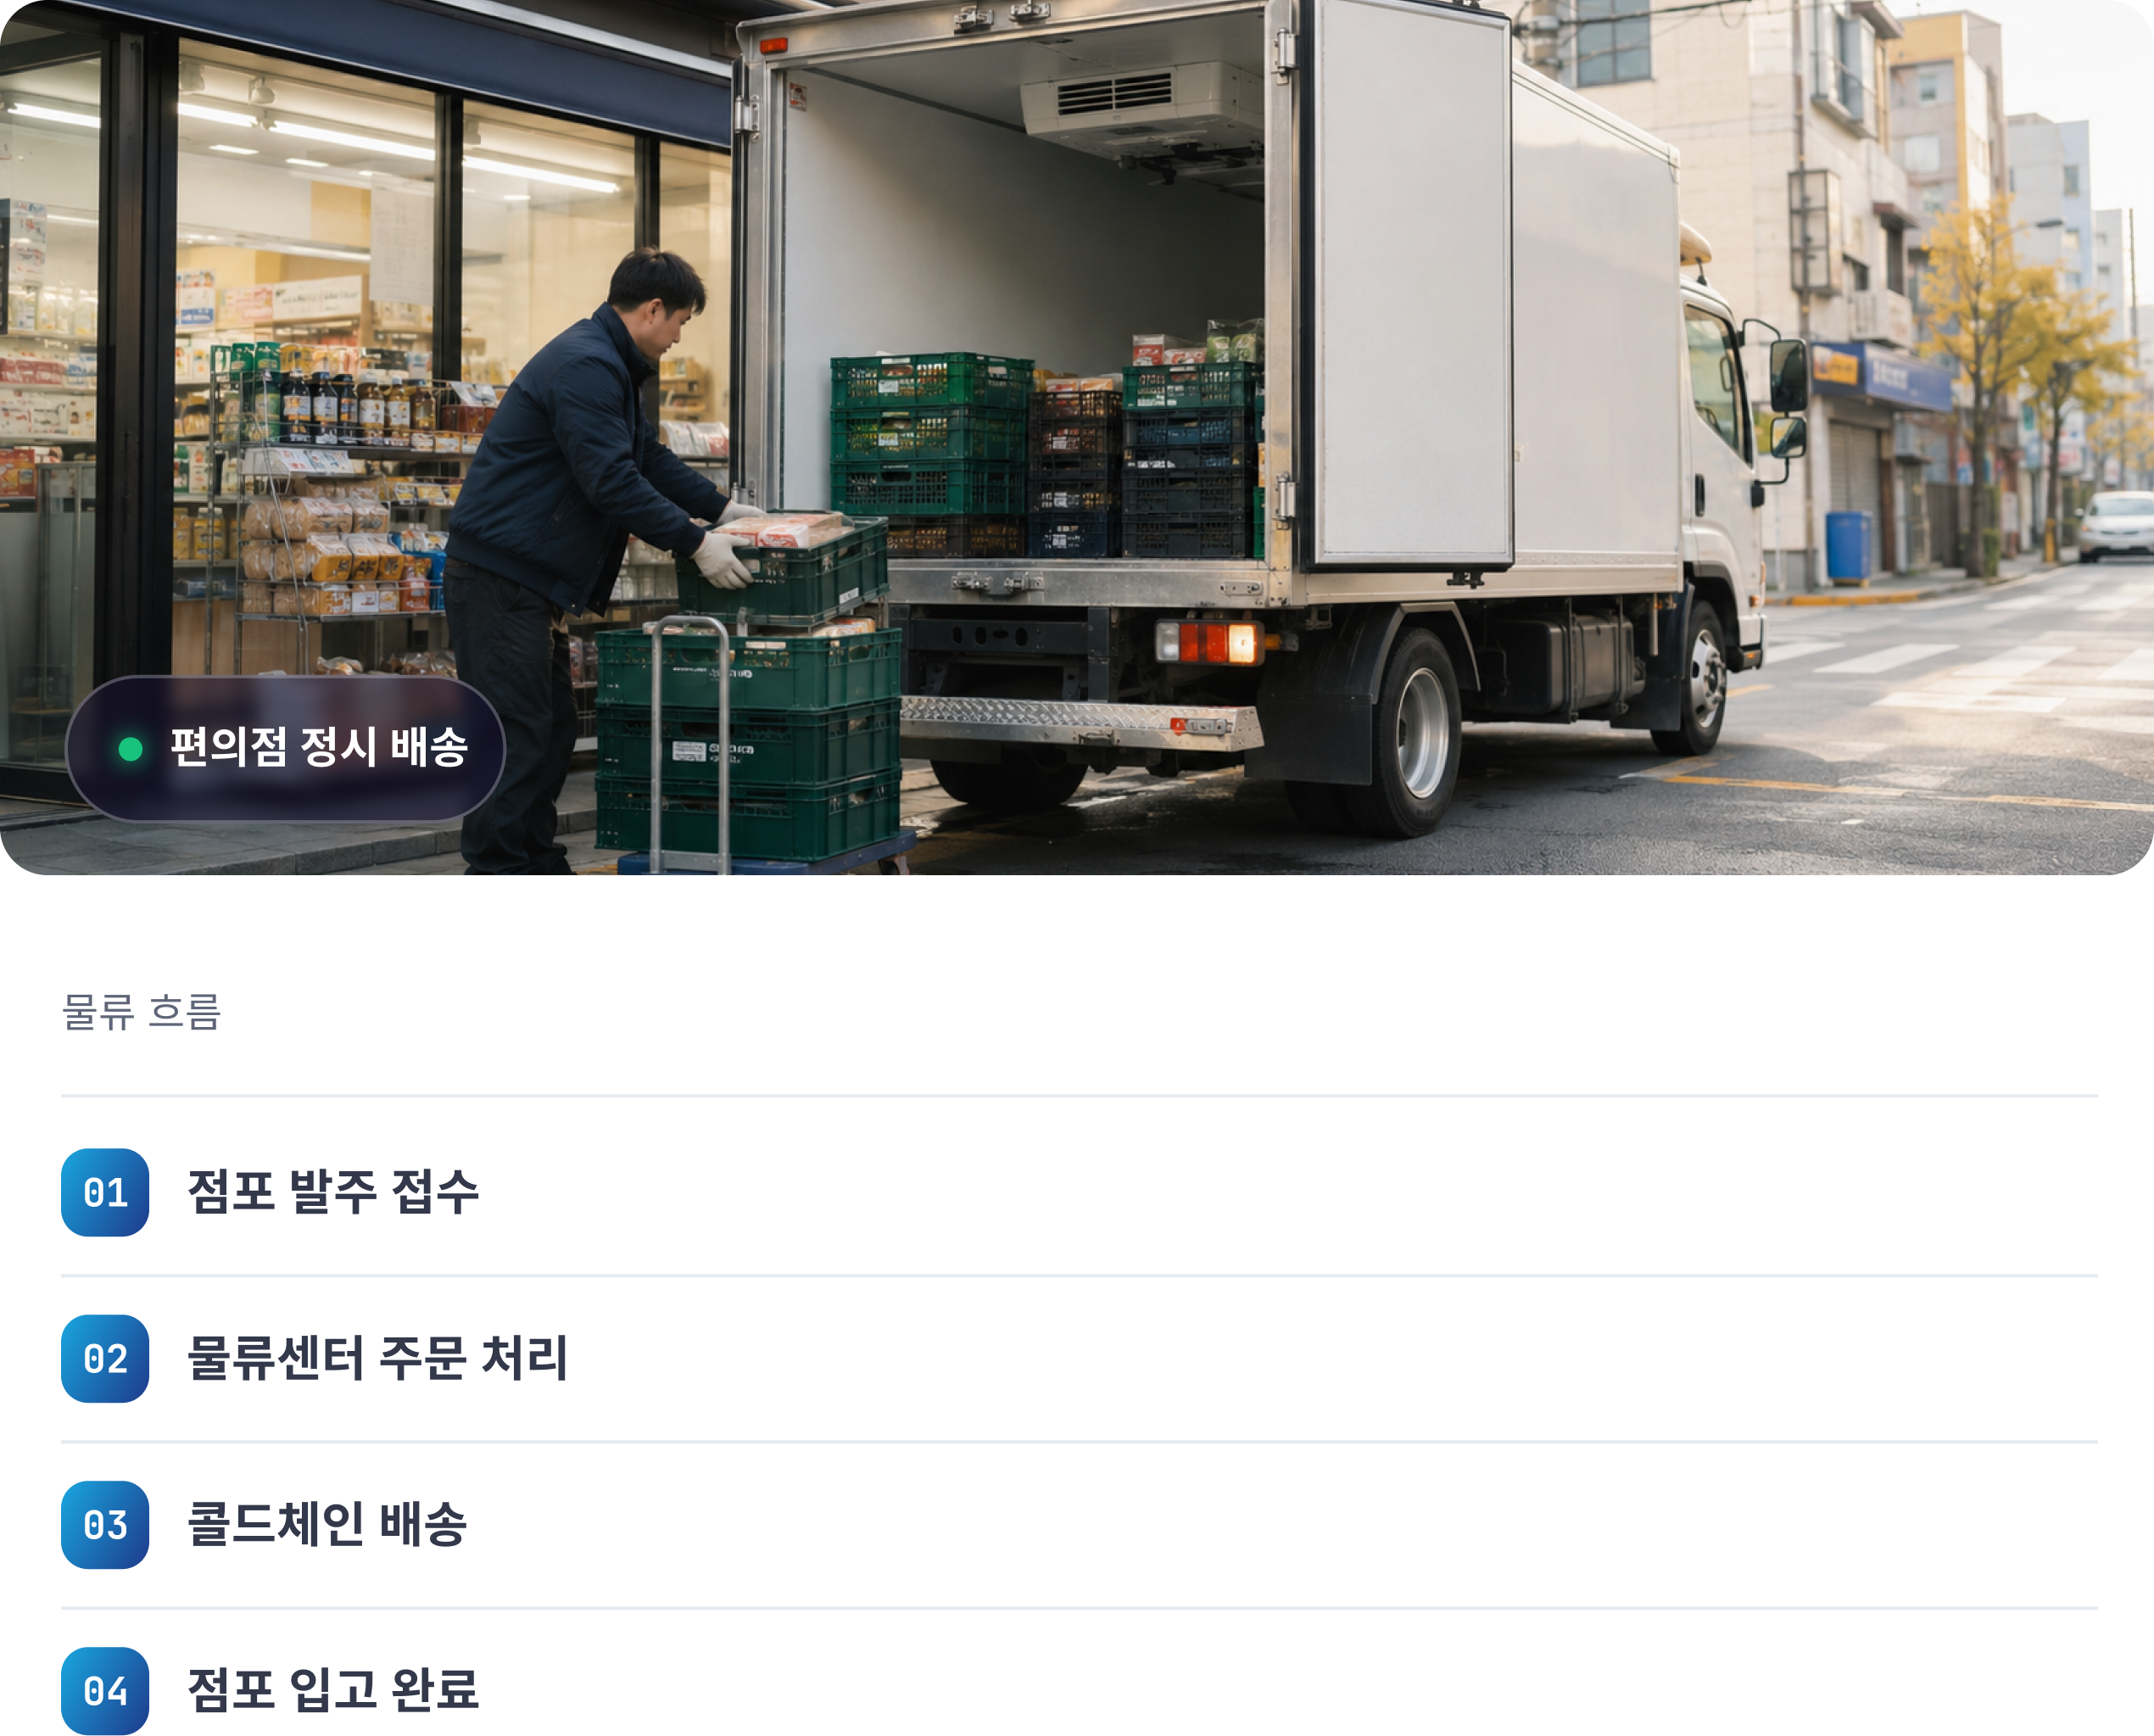
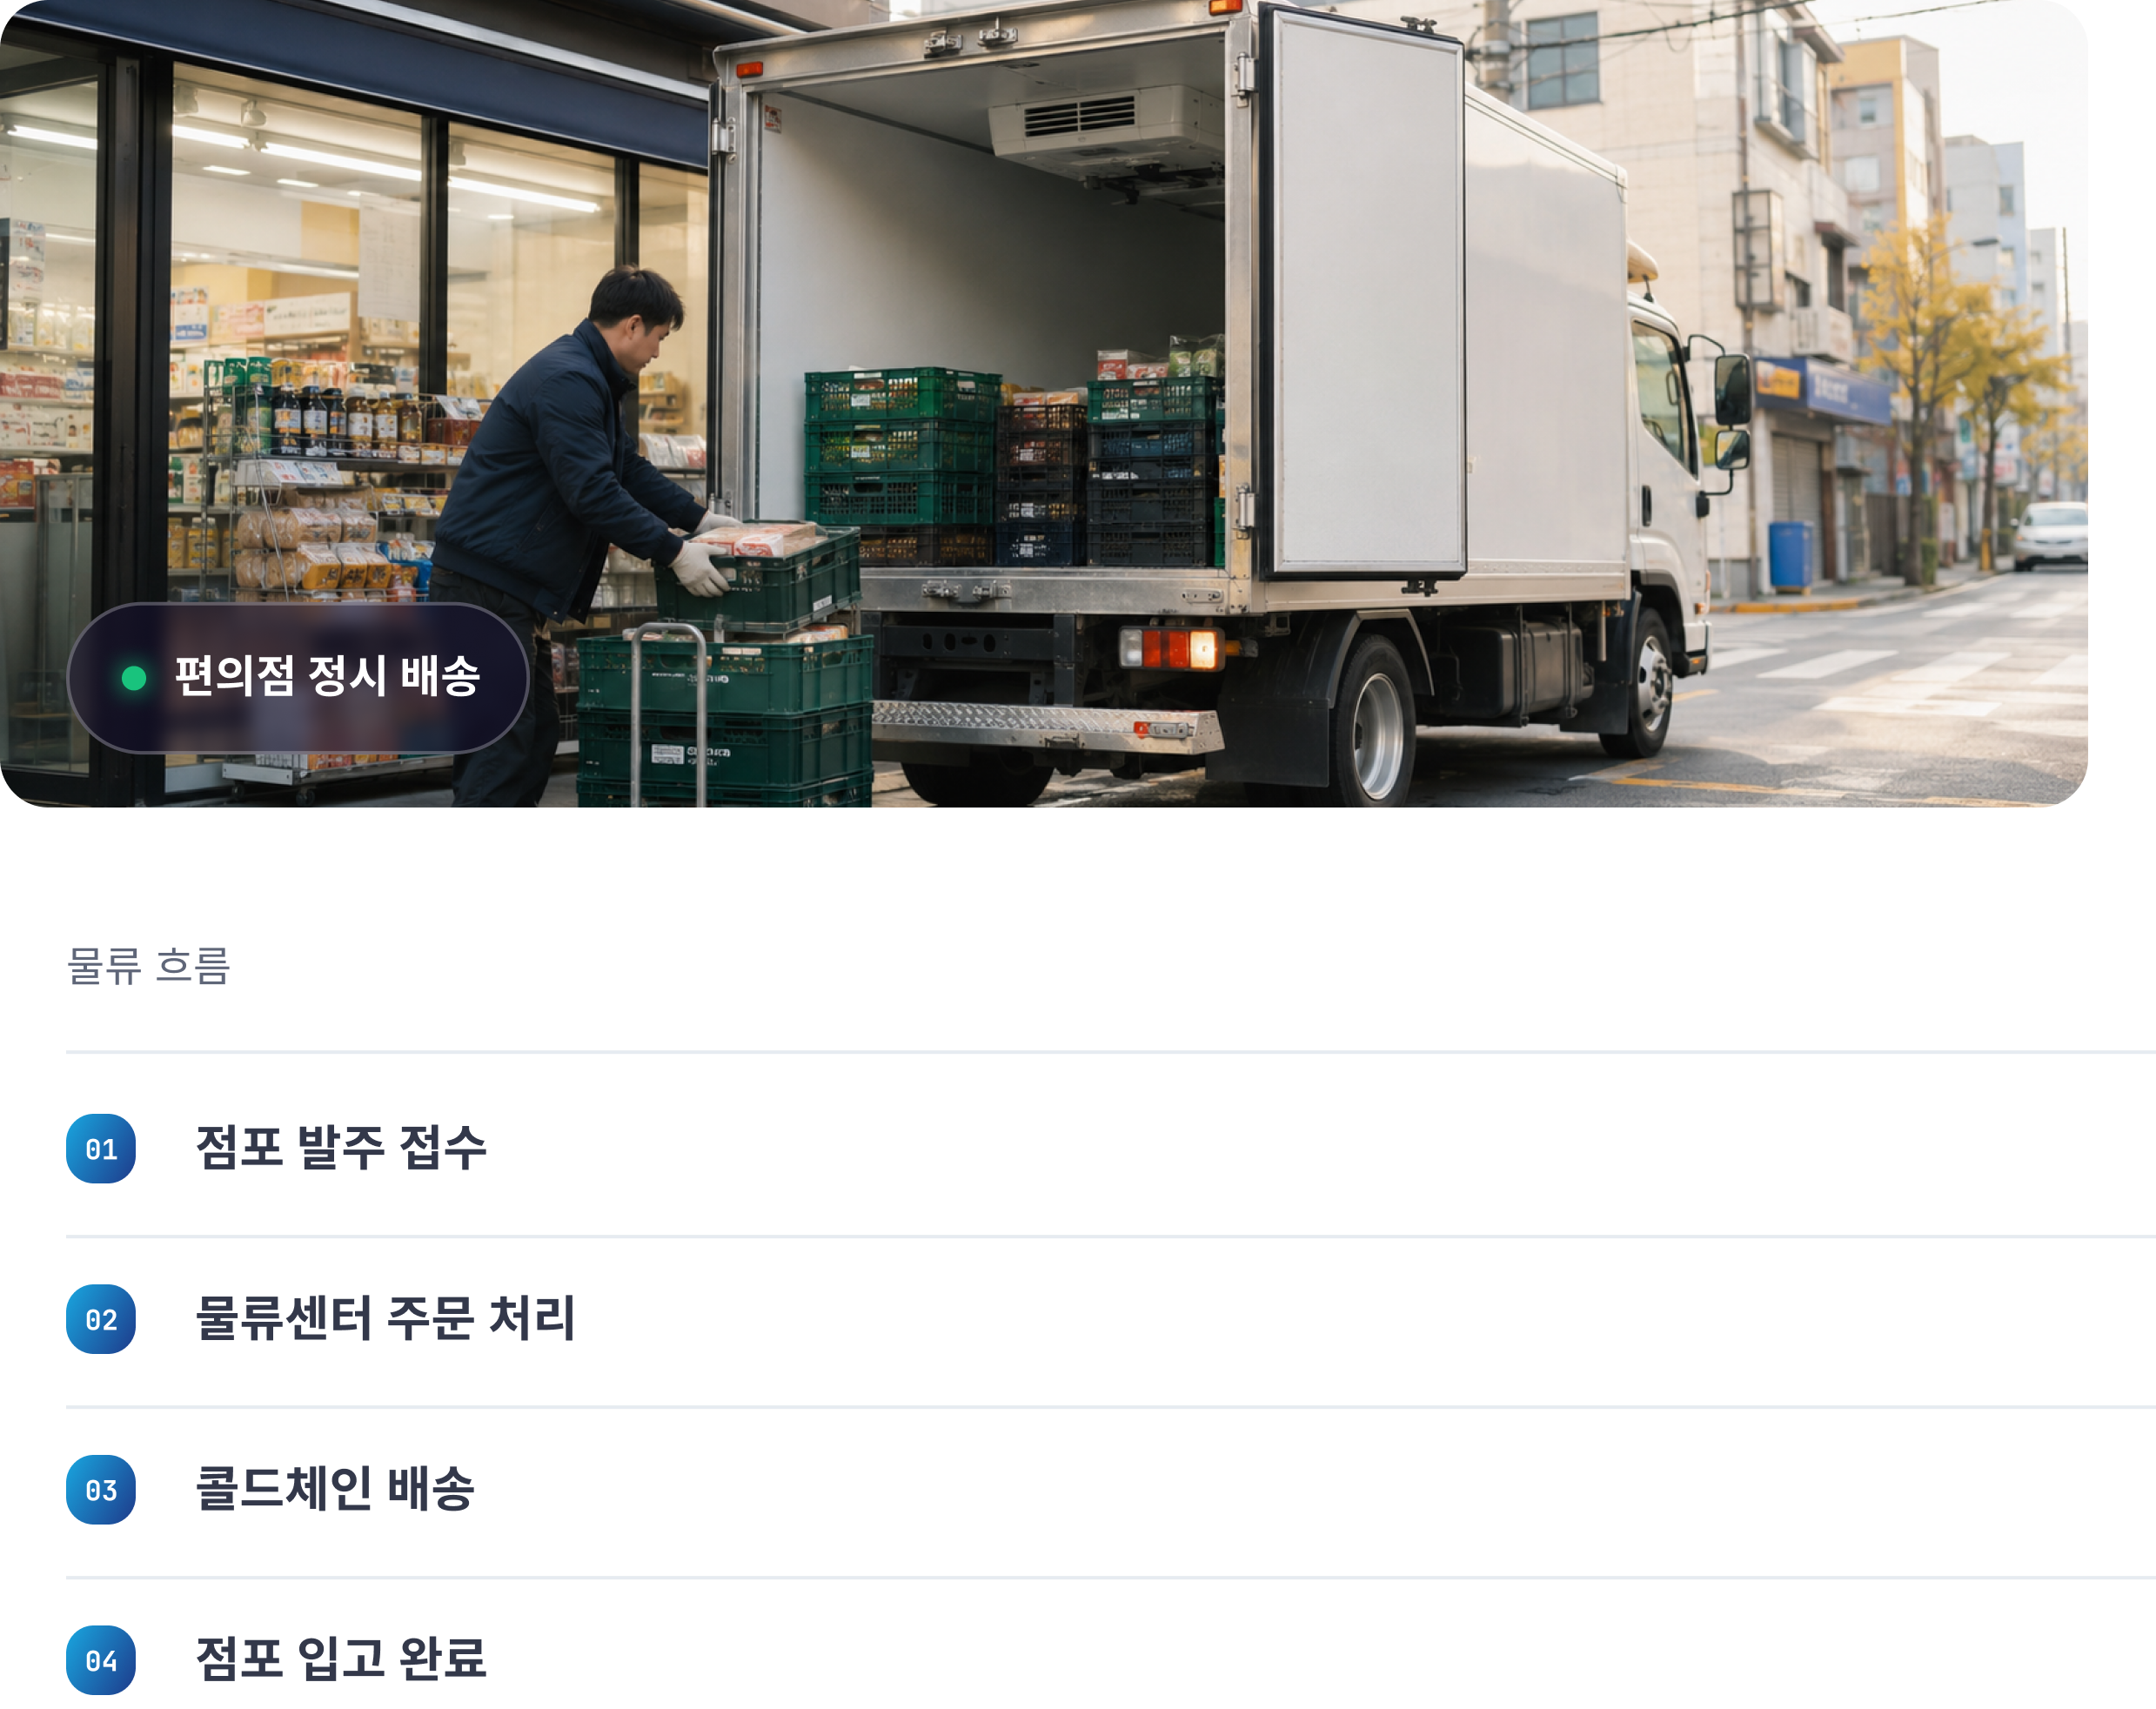
business-page 완

diff --git a/src/pages/Business.tsx b/src/pages/Business.tsx
@@ -1,49 +1,51 @@
-import PageHero from '../components/common/PageHero'
-import SectionBadge from '../components/common/SectionBadge'
-import SubNav from '../components/navigation/SubNav'
-import { subNavItems } from '../data/subNavData'
+import PageHero from "../components/common/PageHero"
+import SectionBadge from "../components/common/SectionBadge"
+import SubNav from "../components/navigation/SubNav"
+import { subNavItems } from "../data/subNavData"
 
 const businessSections = [
   {
-    id: 'cold-chain',
-    badge: 'COLDCHAIN',
-    title: '콜드체인 물류',
-    description:
-      '냉장·냉동 상품의 온도를 유지하며 보관·출고·배송하는 핵심 서비스입니다.',
+    id: "cold-chain",
+    badge: "COLDCHAIN",
+    title: "콜드체인 물류",
+    description: `냉장·냉동 상품의 온도를 유지하며 
+보관·출고·배송하는 핵심 서비스입니다.`,
     points: [
-      '냉장·냉동 상품의 온도 유지 물류 서비스',
-      '상품 보관·출고·배송 과정에서 적정 온도 관리',
-      '온도 이상으로 인한 상품 품질 저하 방지',
+      "냉장·냉동 상품의 온도 유지 물류 서비스",
+      "상품 보관·출고·배송 과정에서 적정 온도 관리",
+      "온도 이상으로 인한 상품 품질 저하 방지",
     ],
-    keywords: ['온도 유지', '실시간 관제', '냉장·냉동 분리'],
-    image: '/business-coldchain.png',
+    keywords: ["온도 유지", "실시간 관제", "냉장·냉동 분리"],
+    image: "/business-coldchain.png",
   },
   {
-    id: 'convenience',
-    badge: 'CONVENIENCE',
-    title: '편의점 물류',
-    description: '편의점 점포 발주부터 배송까지 물류 흐름을 관리합니다.',
+    id: "convenience",
+    badge: "CONVENIENCE",
+    title: "편의점 물류",
+    description: `편의점 점포 발주부터 배송까지 
+물류 흐름을 관리합니다.`,
     points: [
-      '편의점 점포 발주 및 배송 흐름 관리',
-      '물류센터 주문 처리와 점포 입고 과정 관리',
-      '도시락·삼각김밥·우유·아이스크림 등 상품 공급 관리',
+      "편의점 점포 발주 및 배송 흐름 관리",
+      "물류센터 주문 처리와 점포 입고 과정 관리",
+      "도시락·삼각김밥·우유·아이스크림 등 상품 공급 관리",
     ],
-    keywords: ['점포 발주', '정시 배송', '신선식품'],
-    image: '/business-convenience.png',
+    keywords: ["점포 발주", "정시 배송", "신선식품"],
+    image: "/business-convenience.png",
     reverse: true,
   },
   {
-    id: 'operation',
-    badge: 'OPERATION',
-    title: '물류 운영 관리',
-    description: '재고·배송·폐기 흐름을 하나의 화면에서 통합적으로 관리합니다.',
+    id: "operation",
+    badge: "OPERATION",
+    title: "물류 운영 관리",
+    description: `재고·배송·폐기 흐름을 하나의 화면에서 
+통합적으로 관리합니다.`,
     points: [
-      '상품별 현재고와 안전재고 관리',
-      '배송 목록·배송 완료·미배송 상태 관리',
-      '유통기한 임박 상품 및 폐기 대상 상품 관리',
+      "상품별 현재고와 안전재고 관리",
+      "배송 목록·배송 완료·미배송 상태 관리",
+      "유통기한 임박 상품 및 폐기 대상 상품 관리",
     ],
-    keywords: ['재고 관리', '배송 추적', '폐기 관리'],
-    image: '/business-operation.png',
+    keywords: ["재고 관리", "배송 추적", "폐기 관리"],
+    image: "/business-operation.png",
   },
 ]
 
@@ -63,7 +65,7 @@ function Business() {
           key={section.id}
           id={section.id}
           className={`business-section${
-            section.reverse ? ' business-section--reverse' : ''
+            section.reverse ? " business-section--reverse" : ""
           }`}
           aria-labelledby={`business-${section.id}-title`}
         >

diff --git a/src/styles/pages/_business.scss b/src/styles/pages/_business.scss
@@ -13,10 +13,10 @@
 .business-section__inner {
   @include container;
   padding: $space-120 0;
-  display: grid;
-  grid-template-columns: minmax(0, 0.82fr) minmax(420px, 1fr);
+  display: flex;
+  justify-content: space-between;
   align-items: center;
-  gap: clamp($space-48, 5vw, $space-96);
+  gap: $space-80;
 }
 
 .business-section--reverse .business-section__content {
@@ -29,7 +29,8 @@
 
 .business-section__content {
   min-width: 0;
-  max-width: 620px;
+  width: 420px;
+  flex: 0 0 420px;
 }
 
 .business-section__badge {
@@ -53,6 +54,7 @@
   font-size: 18px;
   line-height: 1.7;
   letter-spacing: -0.02em;
+  white-space: pre-line;
   @include keep-word;
 }
 
@@ -111,6 +113,8 @@
 
 .business-section__media {
   min-width: 0;
+  width: 720px;
+  flex: 0 0 720px;
 }
 
 .business-section__media img {
@@ -118,20 +122,30 @@
   height: auto;
   border-radius: $radius-lg;
   display: block;
-  object-fit: contain;
 }
 
 @media (max-width: $breakpoint-desktop) {
   .business-section__inner {
-    grid-template-columns: minmax(0, 0.9fr) minmax(360px, 1fr);
     gap: $space-64;
   }
+
+  .business-section__content {
+    width: 400px;
+    flex-basis: 400px;
+  }
+
+  .business-section__media {
+    width: 620px;
+    flex-basis: 620px;
+  }
+
 }
 
 @media (max-width: $breakpoint-tablet) {
   .business-section__inner {
     padding: $space-96 0;
-    grid-template-columns: 1fr;
+    flex-direction: column;
+    align-items: stretch;
     gap: $space-56;
   }
 
@@ -141,8 +155,16 @@
   }
 
   .business-section__content {
+    width: 100%;
+    flex-basis: auto;
     max-width: 720px;
   }
+
+  .business-section__media {
+    width: 100%;
+    flex-basis: auto;
+  }
+
 }
 
 @media (max-width: $breakpoint-mobile) {
@@ -156,6 +178,11 @@
 
   .business-section__content > p {
     font-size: 16px;
+  }
+
+  .business-section__content,
+  .business-section__media {
+    max-width: 100%;
   }
 
   .business-section__keywords span {